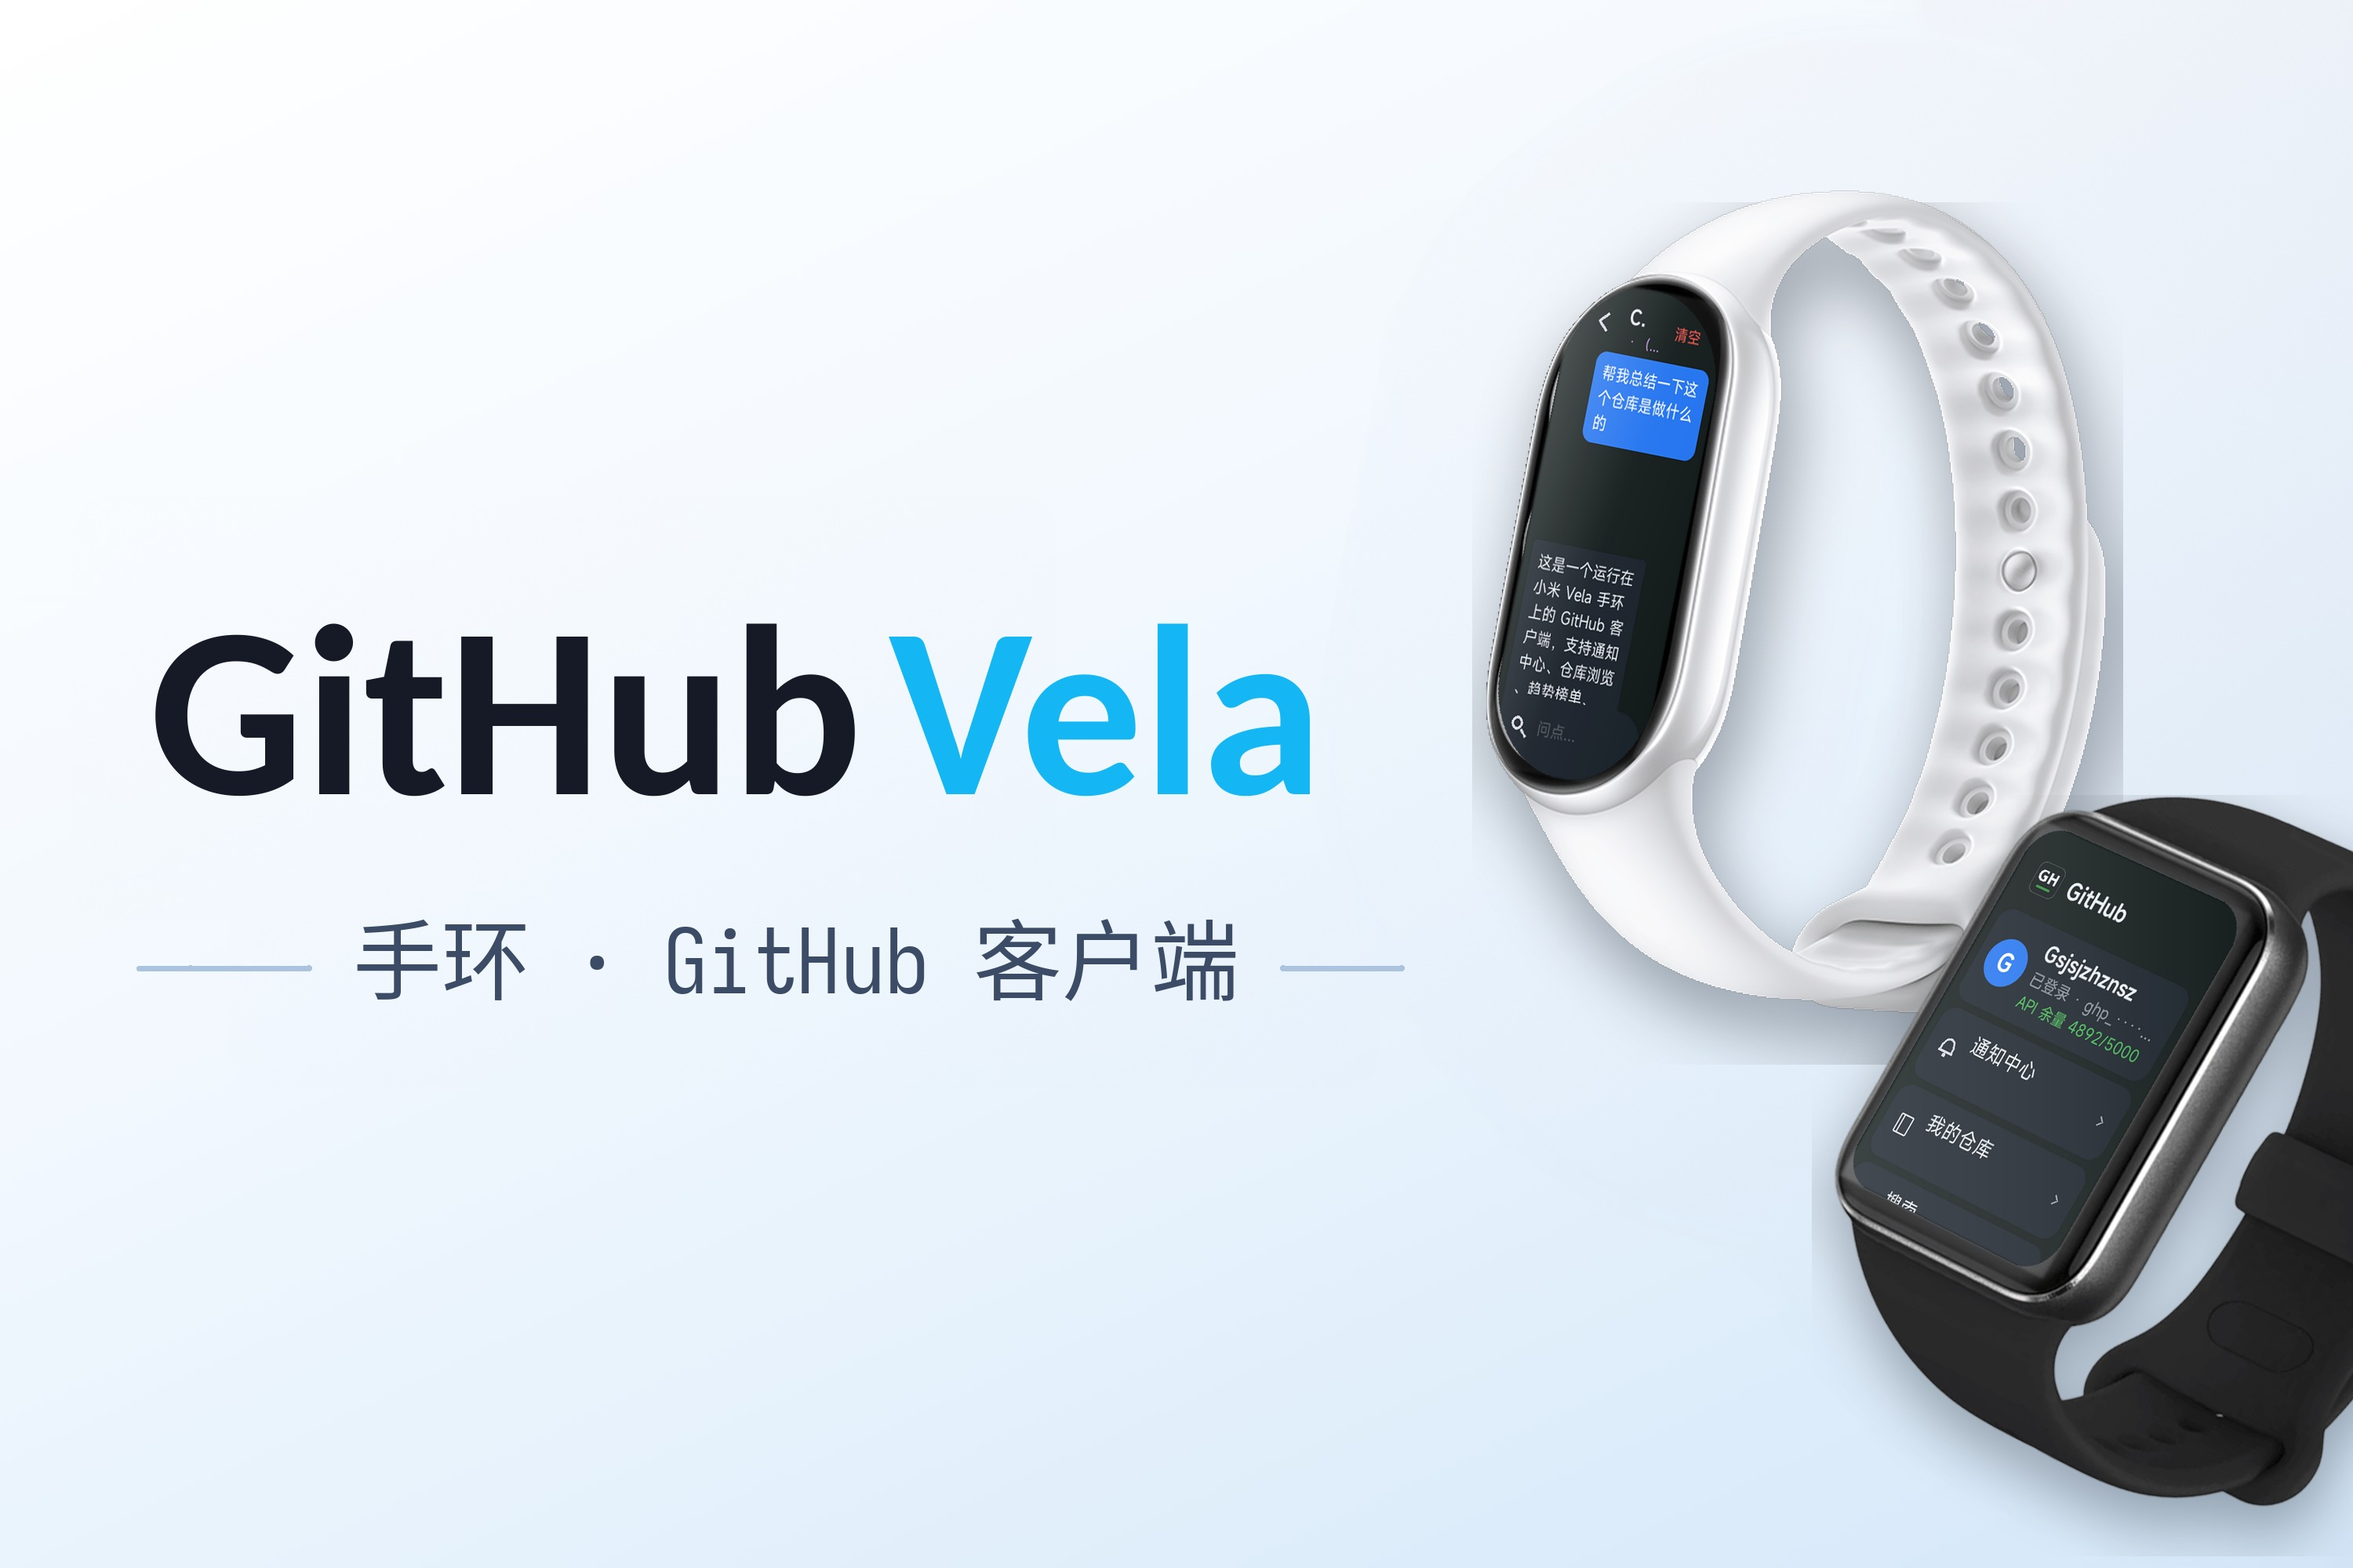
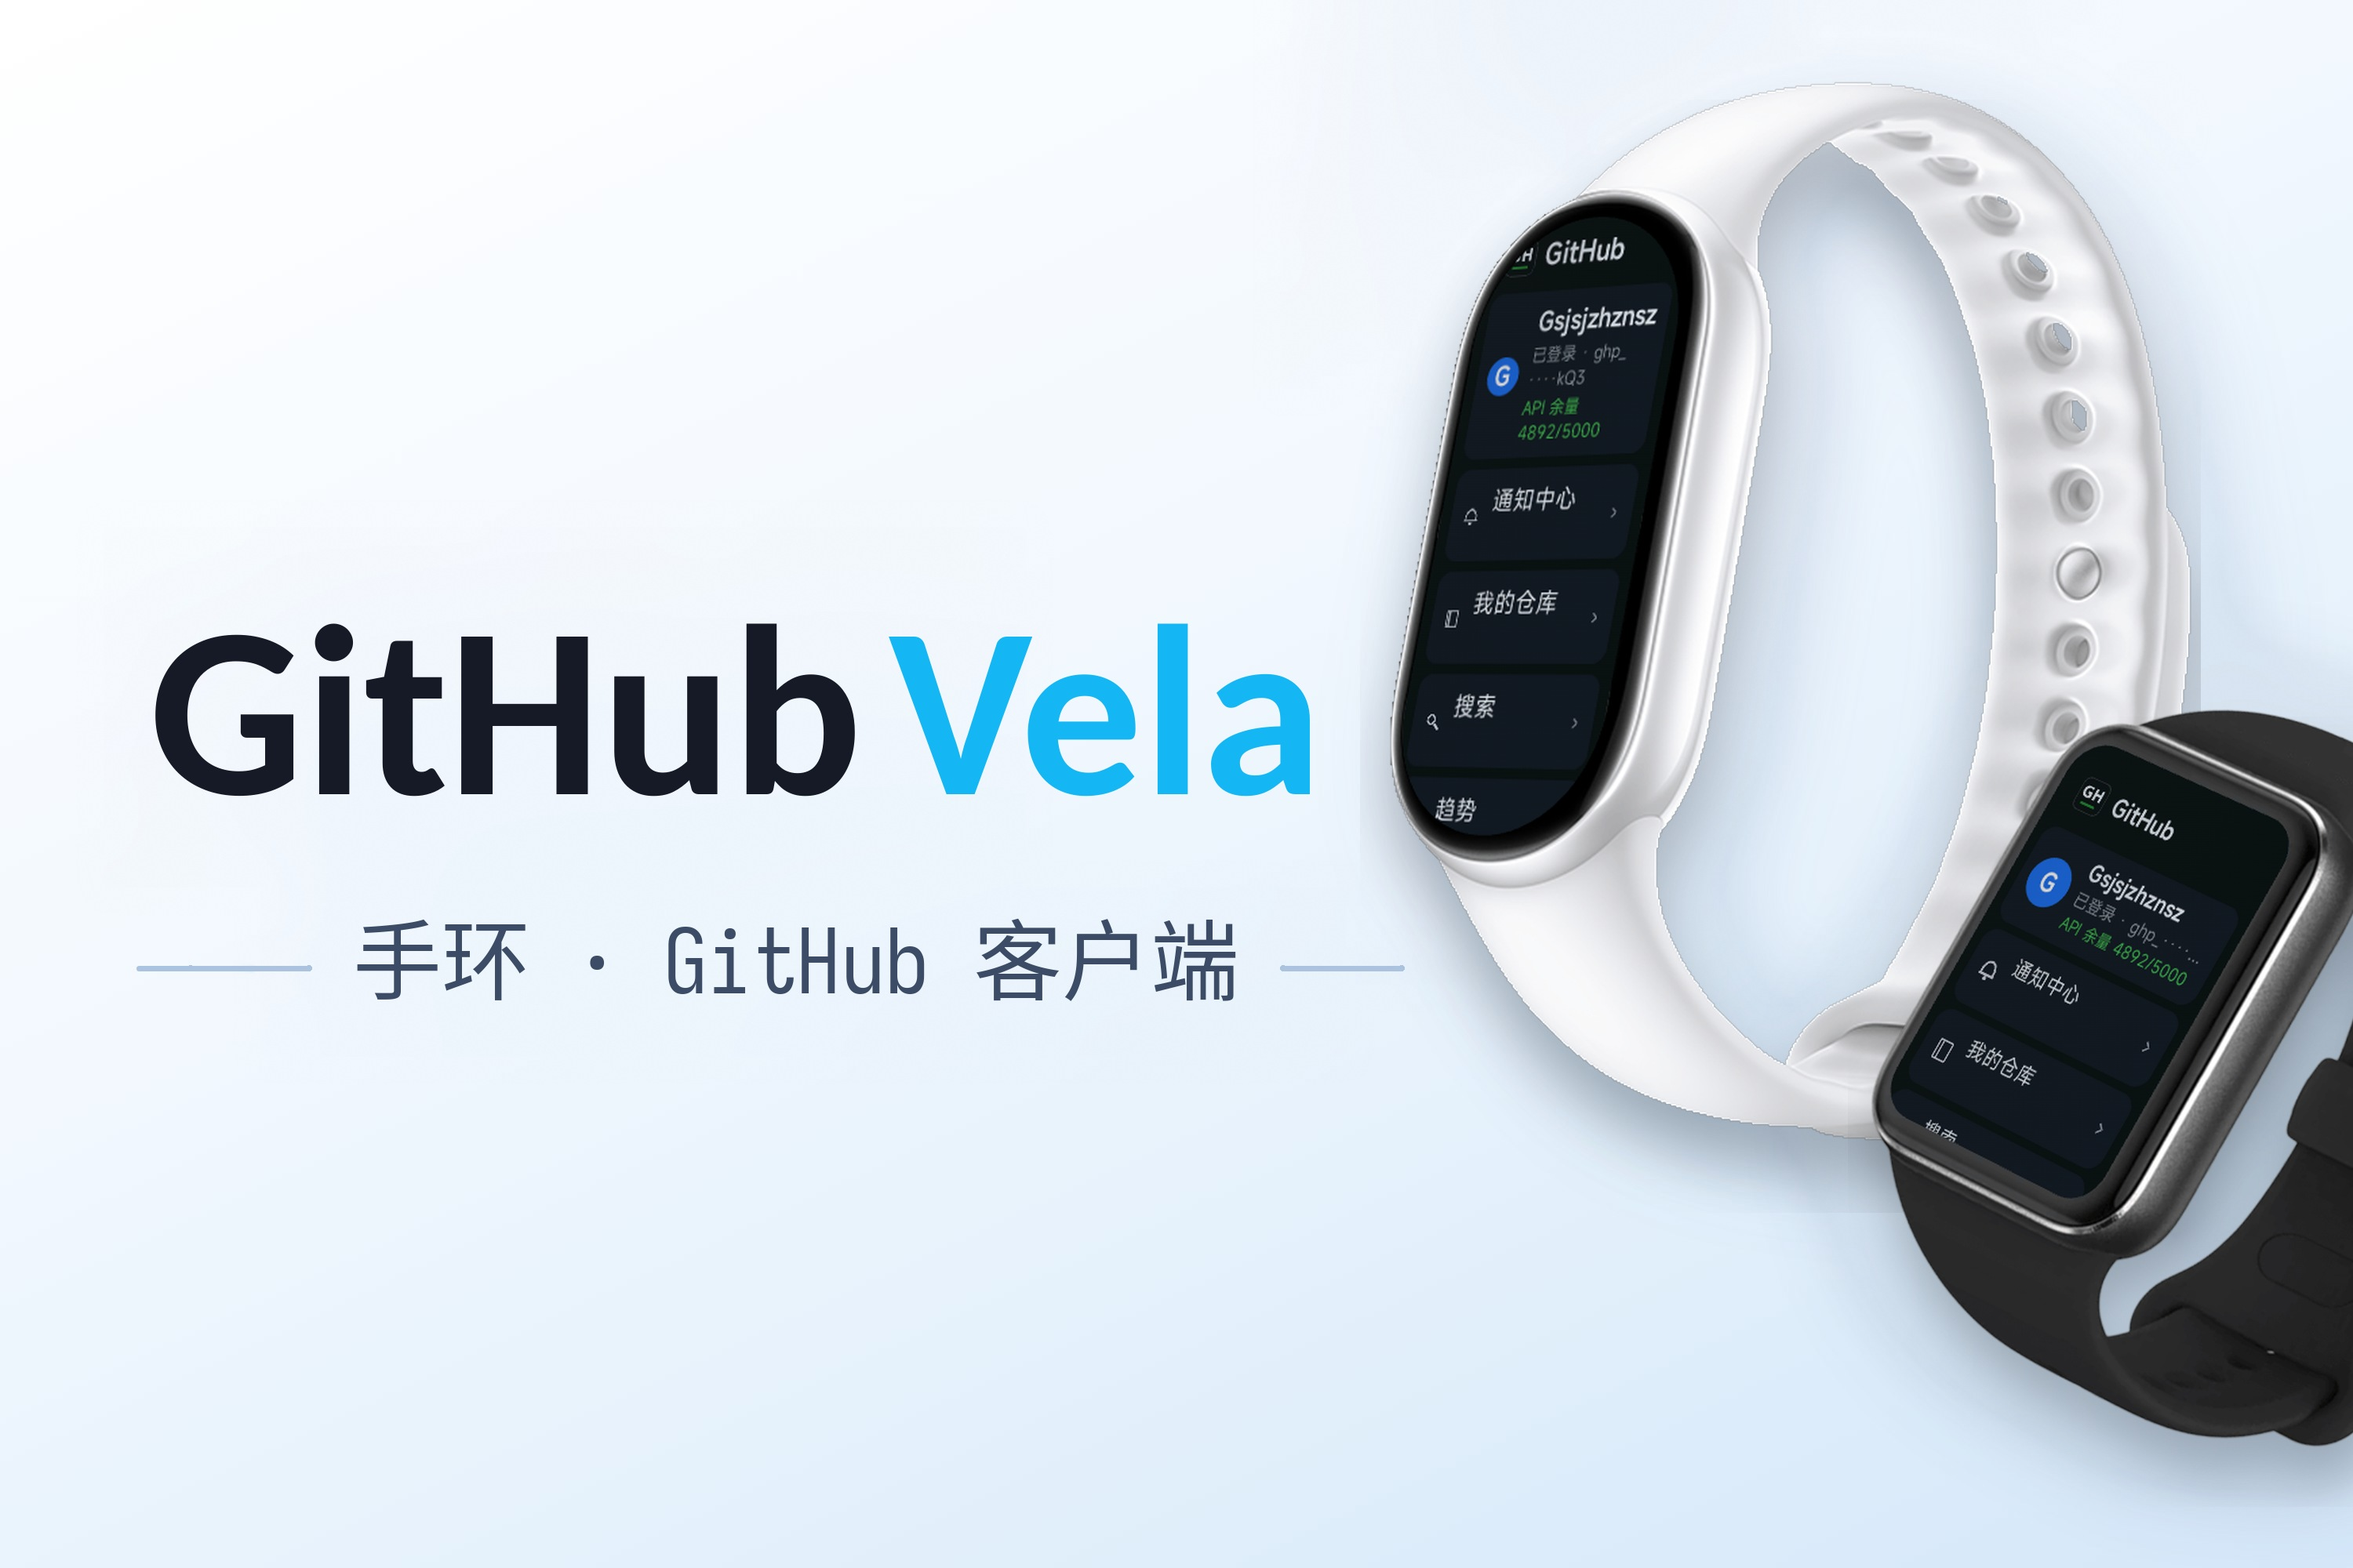
promo: 宣传图设备换用小米官方模板渲染图（手环11/9Pro 实机界面），根修贴图纸片感
- 以 BandQQ 官方封面为底版，整只替换右侧设备为官方模板渲染图（透明底 PNG）
- 背景保留管线重写：B-R 蓝底锚点 + 多尺度归一化卷积 + 拉普拉斯扩散修复，辉光/渐变原样保留
- 软阴影改贴地式（轮廓腐蚀+窄模糊+下偏移），消除旧版大范围压暗造成的亮板错觉
- README 首图引注同步更新（设备来源改为官方模板渲染）

Changed region(s): [[0.558, 0.062, 1.0, 0.992]]

diff --git a/README.md b/README.md
@@ -28,8 +28,8 @@
 |:---:|:---:|:---:|
 | ![首页](promo/home-band-rounded.png) | ![游客态](promo/home-band-guest-rounded.png) | ![Copilot](promo/ai-band-rounded.png) |
 
-> 首图以 BandQQ 官方宣传图为底版最小改编：仅替换品牌文字与右侧设备——白色手环 11 屏显 Copilot 对话发送实机图，黑色手环 9 Pro 屏显首页登录态；
-> 设备透视图贴合基于 [miband-proto-forge](https://github.com/zaona/miband-proto-forge) 官方屏幕四角数据，实拍图由小米官方 Vela 模拟器（vela-watch-5.0 镜像）逐页渲染输出；登录态用户名/Token 为示例数据。
+> 首图以 BandQQ 官方宣传图为底版最小改编：仅替换品牌文字与右侧设备——白色手环 11 与黑色手环 9 Pro 为小米官方模板渲染图（屏显本应用实机界面，首页登录态）；
+> 背景渐变/辉光/版式与原版 1:1 对位；登录态用户名/Token 为示例数据。
 
 ## 📲 下载 v2.1.2（四分支机型版 · versionCode 42 全线一致）
 
